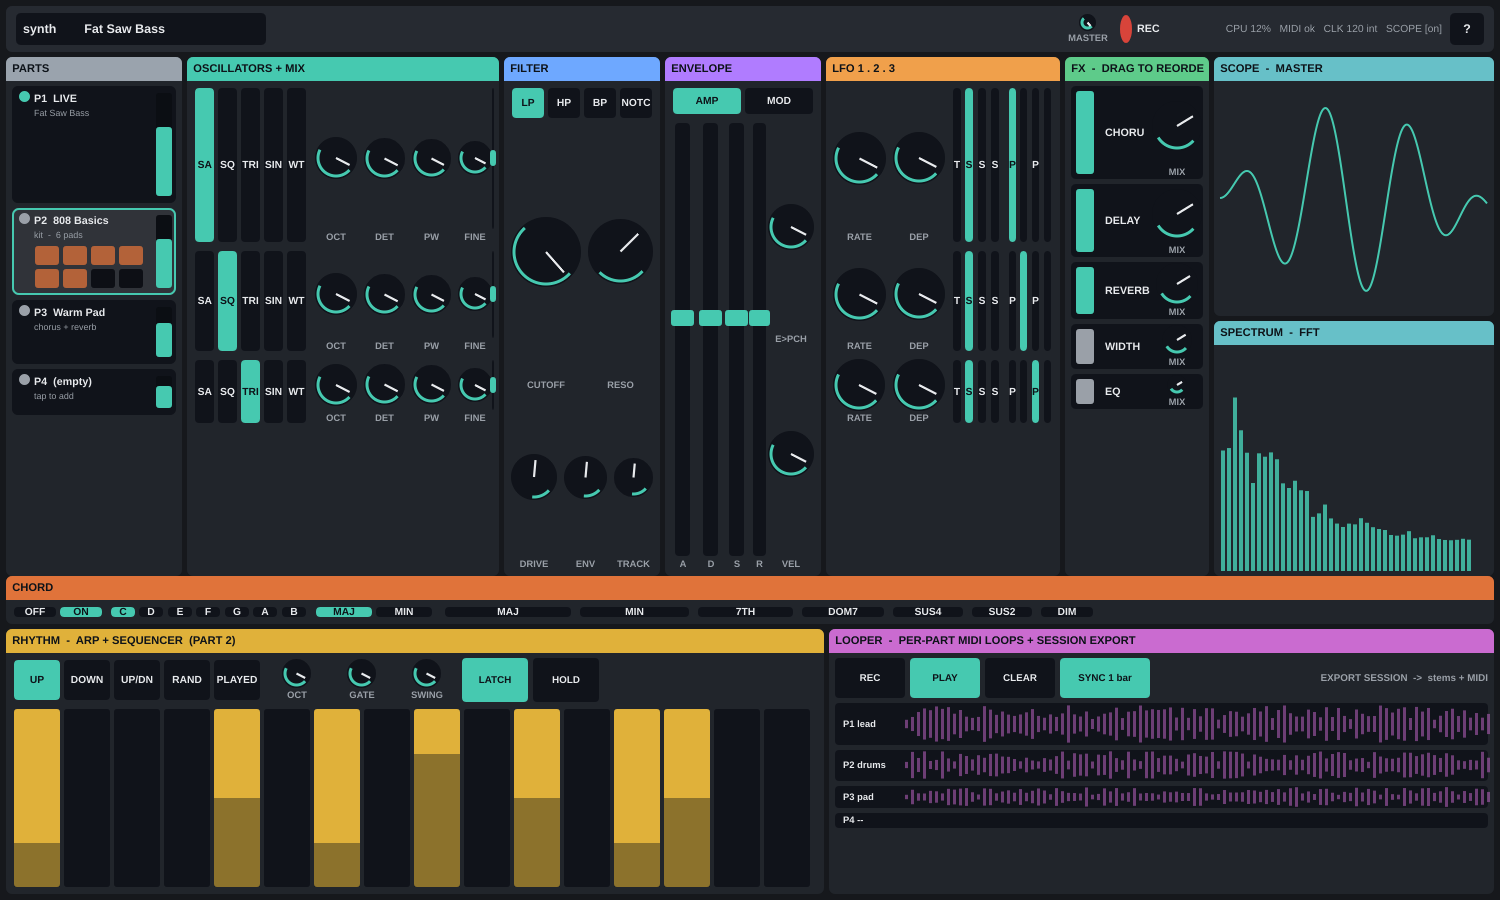
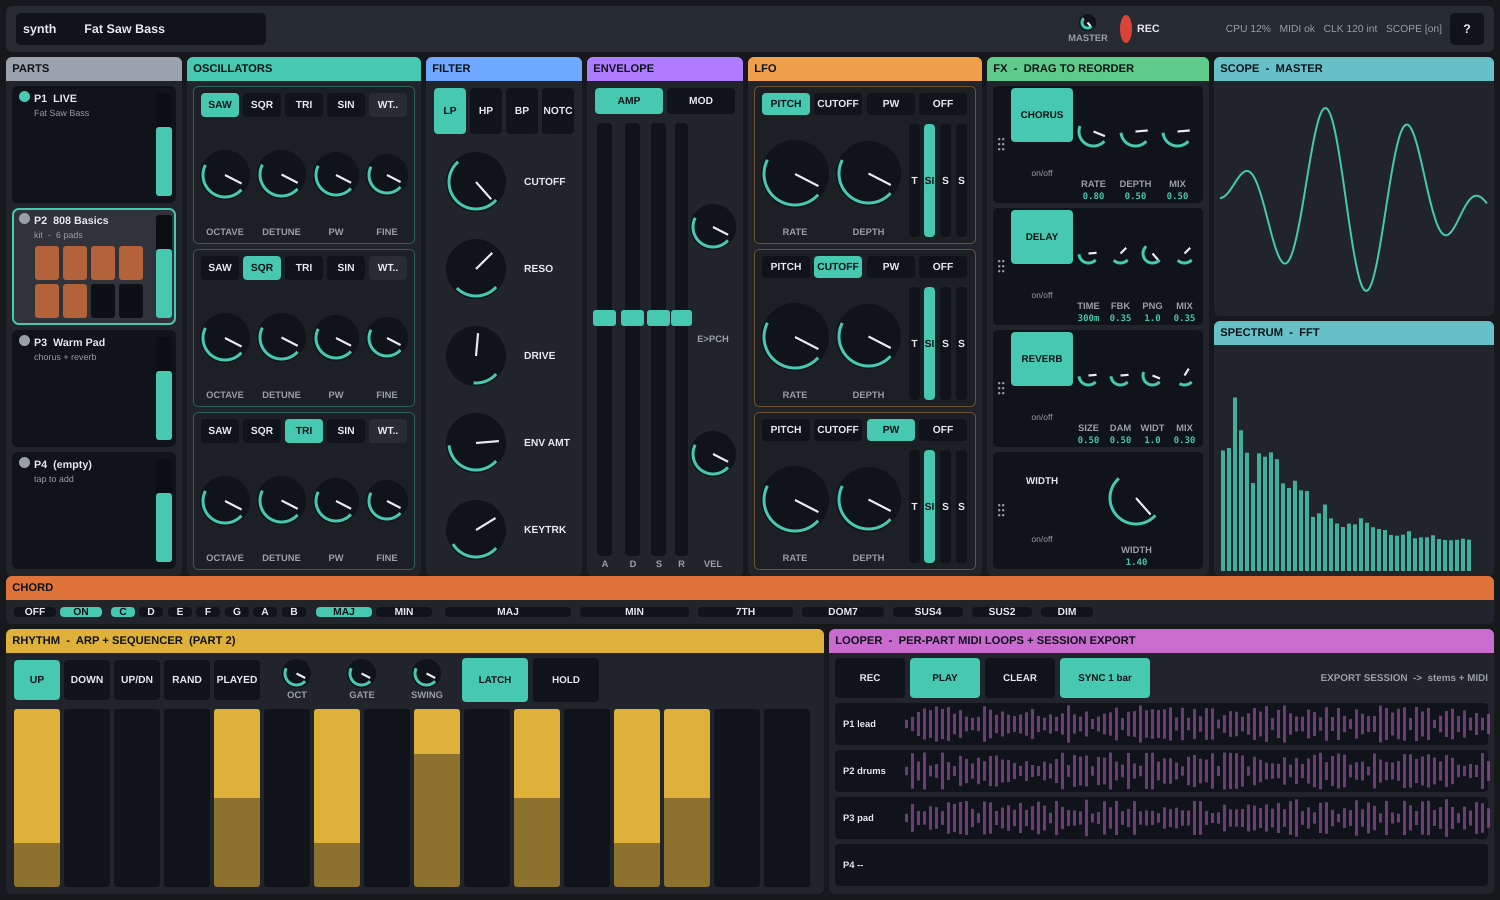
R2 mockup rev4: per-section redesign from sign-off notes
- Parts rail: even-height cells (fixed a shrinking-row bug that recomputed
  height each iteration).
- Oscillators: one sub-box PER oscillator; wave shapes as touch buttons across
  the top (SAW/SQR/TRI/SIN/WT.., WT opens a wavetable picker); OCTAVE/DETUNE/
  PW/FINE knobs below with clearer labels.
- Filter: type buttons 50% taller; all knobs stacked VERTICALLY at equal size
  with labels beside (Cutoff/Reso/Drive/Env Amt/Keytrk).
- Envelope: unchanged.
- LFO: one sub-box PER LFO (like oscillators); DEST selector horizontal across
  the top with full labels (Pitch/Cutoff/PW/Off); Rate/Depth + Shape below.
- FX: reverted to the real draggable panel - Chorus/Delay/Reverb/Width blocks
  (grip handle + on/off) each with their own knobs + NUMERIC values, recoloured
  to match (Chorus rate/depth/mix, Delay time/fbk/png/mix, Reverb size/damp/
  width/mix, Width).
- Chord row, Scope/FFT, RHYTHM sequencer, LOOPER lanes unchanged.
docs/mockup-*.png regenerated.

diff --git a/tests/plugin/test_layout_mockup.cpp b/tests/plugin/test_layout_mockup.cpp
@@ -1,17 +1,22 @@
 // ============================================================================
-// R2 layout MOCKUP (non-functional) - revision 3. Direction from sign-off:
-// denser (more params per section) + creative + more COMPACT synth, freeing real
-// estate for the RHYTHM (arp + 16-step sequencer) and LOOPER (per-part loop lanes)
-// zones. Filled tinted section headers kept. Arrangement: slim top bar; left PART
-// RAIL (P1-P4 + level + kit-pad seam); compact centre in signal-flow order with
-// MORE params visible; right SCOPE + FFT; bottom = CHORD row + substantial RHYTHM
-// + LOOPER zones (shown expanded here to prove the space; collapsed by default at
-// runtime, synth reflows into the freed space). Rendered at default/fullscreen/narrow.
+// R2 layout MOCKUP (non-functional) - revision 4, per detailed sign-off notes:
+//  - Parts rail: even-height cells (fixed a shrinking-row bug).
+//  - Oscillators: subdivided into a box PER OSC; wave shapes as touch buttons across
+//    the top (last = WT, opens a wavetable picker); OCT/DET/PW/FINE knobs below.
+//  - Filter: type buttons 50% taller; all knobs stacked VERTICALLY at equal size.
+//  - Envelope: unchanged (AMP/MOD + ADSR + Env>Pitch/Vel).
+//  - LFO: subdivided into a box PER LFO (like oscillators); DEST selector horizontal
+//    across the top with full labels; Rate/Depth knobs + Shape below.
+//  - FX: reverted to the real draggable panel - Chorus/Delay/Reverb/Width blocks with
+//    their own knobs + NUMERIC values, recoloured to match the UI.
+//  - Chord row, Scope/FFT, RHYTHM sequencer, LOOPER lanes: as before.
+// Rendered at default / fullscreen / narrow.
 // ============================================================================
 #include <catch2/catch_test_macros.hpp>
 #include <juce_gui_basics/juce_gui_basics.h>
 #include "UI/VASynthLookAndFeel.h"
 #include <cmath>
+#include <vector>
 
 #ifndef VASYNTH_DOCS_DIR
  #define VASYNTH_DOCS_DIR "."
@@ -19,7 +24,7 @@
 
 namespace
 {
-    using juce::Rectangle; using juce::Colour; using juce::Graphics;
+    using juce::Rectangle; using juce::Colour; using juce::Graphics; using juce::String;
 
     Colour panel   () { return VASynthLookAndFeel::panel(); }
     Colour panelLt () { return VASynthLookAndFeel::panelLight(); }
@@ -32,10 +37,10 @@ namespace
     Rectangle<int> takeL (Rectangle<int>& r, int w) { auto c = r.removeFromLeft (w); r.removeFromLeft (5); return c; }
     Rectangle<int> takeT (Rectangle<int>& r, int h) { auto c = r.removeFromTop (h);  r.removeFromTop (5);  return c; }
 
-    void clabel (Graphics& g, Rectangle<int> r, const juce::String& t)
+    void clabel (Graphics& g, Rectangle<int> r, const String& t)
     { g.setColour (dim()); g.setFont (juce::Font (juce::FontOptions (10.5f, juce::Font::bold))); g.drawText (t, r, juce::Justification::centred, false); }
 
-    Rectangle<int> section (Graphics& g, Rectangle<int> r, const juce::String& t, Colour tint)
+    Rectangle<int> section (Graphics& g, Rectangle<int> r, const String& t, Colour tint)
     {
         g.setColour (panelLt().darker (0.12f)); g.fillRoundedRectangle (r.toFloat(), 6.0f);
         auto head = r.removeFromTop (24);
@@ -45,10 +50,9 @@ namespace
         return r.reduced (6, 5);
     }
 
-    void knob (Graphics& g, Rectangle<int> r, const juce::String& label, float v = 0.62f)
+    void knobAt (Graphics& g, Rectangle<int> r, float v, int maxD)
     {
-        auto lab = r.removeFromBottom (13);
-        const int d = juce::jmin (juce::jmin (r.getWidth() - 2, r.getHeight() - 2), 96);
+        const int d = juce::jmin (juce::jmin (r.getWidth() - 2, r.getHeight() - 2), maxD);
         auto c = r.withSizeKeepingCentre (d, d).toFloat();
         g.setColour (track()); g.fillEllipse (c);
         const auto ctr = c.getCentre(); const float r0 = c.getWidth() * 0.5f - 3.0f;
@@ -56,10 +60,21 @@ namespace
         juce::Path arc; arc.addCentredArc (ctr.x, ctr.y, r0, r0, 0.0f, a0, a1, true);
         g.setColour (accent()); g.strokePath (arc, juce::PathStrokeType (3.0f));
         g.setColour (ink()); g.drawLine (ctr.x, ctr.y, ctr.x + std::cos (a1 + 1.57f) * r0 * 0.85f, ctr.y + std::sin (a1 + 1.57f) * r0 * 0.85f, 2.2f);
+    }
+    void knob (Graphics& g, Rectangle<int> r, const String& label, float v = 0.62f)
+    { auto lab = r.removeFromBottom (13); knobAt (g, r, v, 92); clabel (g, lab, label); }
+
+    // knob + label + numeric value (FX controls).
+    void knobV (Graphics& g, Rectangle<int> r, const String& label, const String& val, float v)
+    {
+        auto valR = r.removeFromBottom (13); auto lab = r.removeFromBottom (12);
+        knobAt (g, r, v, 58);
         clabel (g, lab, label);
+        g.setColour (accent()); g.setFont (juce::Font (juce::FontOptions (juce::Font::getDefaultMonospacedFontName(), 10.5f, juce::Font::bold)));
+        g.drawText (val, valR, juce::Justification::centred, false);
     }
 
-    void fader (Graphics& g, Rectangle<int> r, const juce::String& label, float v)
+    void fader (Graphics& g, Rectangle<int> r, const String& label, float v)
     {
         auto lab = r.removeFromBottom (13);
         auto col = r.withSizeKeepingCentre (juce::jmin (15, r.getWidth() - 2), r.getHeight() - 4);
@@ -75,16 +90,29 @@ namespace
         for (int i = 0; i < opts.size(); ++i)
         {
             auto cell = Rectangle<int> (r.getX() + i * r.getWidth() / n, r.getY(), r.getWidth() / n, r.getHeight()).reduced (2);
-            g.setColour (i == sel ? accent() : track()); g.fillRoundedRectangle (cell.toFloat(), 4.0f);
+            const bool wt = opts[i].startsWith ("WT");
+            g.setColour (i == sel ? accent() : (wt ? track().brighter (0.12f) : track())); g.fillRoundedRectangle (cell.toFloat(), 4.0f);
             g.setColour (i == sel ? onTint() : ink()); g.setFont (juce::Font (juce::FontOptions (11.5f, juce::Font::bold)));
             g.drawText (opts[i], cell, juce::Justification::centred, false);
         }
     }
-    void toggle (Graphics& g, Rectangle<int> r, const juce::String& t, bool on)
+    void toggle (Graphics& g, Rectangle<int> r, const String& t, bool on)
     {
         g.setColour (on ? accent() : track()); g.fillRoundedRectangle (r.toFloat(), 4.0f);
         g.setColour (on ? onTint() : ink()); g.setFont (juce::Font (juce::FontOptions (11.0f, juce::Font::bold)));
         g.drawText (t, r, juce::Justification::centred, false);
+    }
+    void grip (Graphics& g, Rectangle<int> r)   // drag handle (two columns of dots)
+    {
+        g.setColour (dim());
+        for (int x = 0; x < 2; ++x) for (int y = 0; y < 3; ++y)
+            g.fillEllipse ((float) (r.getCentreX() - 3 + x * 4), (float) (r.getCentreY() - 6 + y * 5), 2.4f, 2.4f);
+    }
+    Rectangle<int> subBox (Graphics& g, Rectangle<int> r, Colour tint)   // an inset box for one osc / lfo
+    {
+        g.setColour (panel()); g.fillRoundedRectangle (r.toFloat(), 5.0f);
+        g.setColour (tint.withAlpha (0.4f)); g.drawRoundedRectangle (r.toFloat().reduced (0.5f), 5.0f, 1.0f);
+        return r.reduced (6, 5);
     }
 
     struct LayoutMockup : public juce::Component
@@ -112,9 +140,8 @@ namespace
             g.setColour (ink()); g.setFont (juce::Font (juce::FontOptions (12.0f, juce::Font::bold))); g.drawText (" REC", rec, juce::Justification::centredLeft, false);
             knob (g, tb.removeFromRight (60), "MASTER", 0.7f);
 
-            // --- BOTTOM WORKSTATION: chord + RHYTHM + LOOPER (substantial) ------
-            auto workH = juce::jmax (250, area.getHeight() * 38 / 100);
-            auto work = area.removeFromBottom (workH);
+            // --- BOTTOM WORKSTATION: chord + RHYTHM + LOOPER -------------------
+            auto work = area.removeFromBottom (juce::jmax (250, area.getHeight() * 38 / 100));
             {
                 auto chord = takeT (work, 48);
                 auto c = section (g, chord, "Chord", tChord);
@@ -129,8 +156,7 @@ namespace
                   selector (g, takeL (ctrls, 250), { "UP","DOWN","UP/DN","RAND","PLAYED" }, 0);
                   knob (g, takeL (ctrls, 60), "OCT"); knob (g, takeL (ctrls, 60), "GATE"); knob (g, takeL (ctrls, 60), "SWING");
                   toggle (g, takeL (ctrls, 66), "LATCH", true); toggle (g, ctrls.removeFromLeft (66), "HOLD", false); }
-                { auto lane = rb;                                   // 16-step grid
-                  const int cells = 16; const int cw = lane.getWidth() / cells;
+                { auto lane = rb; const int cells = 16; const int cw = lane.getWidth() / cells;
                   for (int s = 0; s < cells; ++s)
                   { auto cell = Rectangle<int> (lane.getX() + s * cw, lane.getY(), cw, lane.getHeight()).reduced (2);
                     const bool on = (s % 4 == 0) || s == 6 || s == 10 || s == 13;
@@ -144,31 +170,33 @@ namespace
                   g.setColour (dim()); g.setFont (juce::Font (juce::FontOptions (11.0f, juce::Font::bold)));
                   g.drawText ("EXPORT SESSION  ->  stems + MIDI", bar, juce::Justification::centredRight, false); }
                 const char* lanes[] { "P1 lead", "P2 drums", "P3 pad", "P4 --" };
+                const int lh = (lb.getHeight() - 3 * 5) / 4;
                 for (int i = 0; i < 4; ++i)
-                { auto lane = takeT (lb, (lb.getHeight() - 3 * 5) / 4);
+                { auto lane = takeT (lb, lh);
                   g.setColour (track()); g.fillRoundedRectangle (lane.toFloat(), 4.0f);
                   g.setColour (ink()); g.setFont (juce::Font (juce::FontOptions (10.5f, juce::Font::bold)));
                   g.drawText (lanes[i], lane.removeFromLeft (70).withTrimmedLeft (8), juce::Justification::centredLeft, false);
                   if (i < 3) { g.setColour (tLoop.withAlpha (0.5f)); juce::Random rr (i + 3);
                     for (int x = 0; x < lane.getWidth(); x += 6) { float h = lane.getHeight() * (0.2f + 0.7f * rr.nextFloat());
-                      g.fillRect (Rectangle<float> ((float) (lane.getX() + x), lane.getCentreY() - h/2, 3.0f, h)); } } }
+                      g.fillRect (Rectangle<float> ((float) (lane.getX() + x), lane.getCentreY() - h / 2, 3.0f, h)); } } }
             }
 
-            // --- left PART RAIL -------------------------------------------------
+            // --- left PART RAIL (even-height cells) -----------------------------
             auto rail = takeL (area, 176);
             {
                 auto rl = section (g, rail, "Parts", tParts);
                 const char* pn[]  { "P1  LIVE", "P2  808 Basics", "P3  Warm Pad", "P4  (empty)" };
                 const char* sub[] { "Fat Saw Bass", "kit  -  6 pads", "chorus + reverb", "tap to add" };
+                const int cellH = (rl.getHeight() - 3 * 5) / 4;      // ONE height -> even cells
                 for (int i = 0; i < 4; ++i)
                 {
-                    auto cell = takeT (rl, (rl.getHeight() - 15) / 4);
+                    auto cell = takeT (rl, cellH);
                     const bool selp = i == 1;
                     g.setColour (selp ? track().brighter (0.16f) : track()); g.fillRoundedRectangle (cell.toFloat(), 6.0f);
                     if (selp) { g.setColour (accent()); g.drawRoundedRectangle (cell.toFloat().reduced (1), 6.0f, 2.0f); }
                     auto lvl = cell.removeFromRight (24).reduced (4, 7);
                     g.setColour (track().darker (0.35f)); g.fillRoundedRectangle (lvl.toFloat(), 3.0f);
-                    g.setColour (accent()); g.fillRoundedRectangle (lvl.withTrimmedTop (lvl.getHeight()/3).toFloat(), 3.0f);
+                    g.setColour (accent()); g.fillRoundedRectangle (lvl.withTrimmedTop (lvl.getHeight() / 3).toFloat(), 3.0f);
                     auto body = cell.reduced (7, 5);
                     g.setColour (i == 0 ? accent() : dim()); g.fillEllipse (body.removeFromLeft (11).removeFromTop (11).toFloat());
                     g.setColour (ink()); g.setFont (juce::Font (juce::FontOptions (12.0f, juce::Font::bold)));
@@ -194,51 +222,74 @@ namespace
                   g.setColour (accent().withAlpha (0.85f)); g.fillRect (Rectangle<float> ((float)(fb.getX()+b*bw+1), fb.getBottom()-h, bw-2.0f, h)); }
             }
 
-            // --- centre synth, COMPACT + dense (more params) --------------------
+            // --- centre synth --------------------------------------------------
             auto centre = area;
             const int u = juce::jmax (78, (centre.getWidth() - 4 * 5) / 13);
 
-            { auto s = section (g, takeL (centre, u * 4), "Oscillators + Mix", tOsc);   // 3 rows x 6 params
-              for (int i = 0; i < 3; ++i) { auto row = takeT (s, (s.getHeight() - 10) / 3);
-                selector (g, takeL (row, 116), { "SAW","SQR","TRI","SIN","WT" }, i);
-                for (auto* l : { "OCT","DET","PW","FINE" }) knob (g, takeL (row, row.getWidth()/(l[0]=='O'?4:l[0]=='D'?3:l[0]=='P'?2:1)), l);
-                fader (g, row.removeFromLeft (0).withWidth (0), "", 0.5f); } }
+            // OSCILLATORS: one sub-box per osc; wave buttons across top, knobs below.
+            { auto s = section (g, takeL (centre, u * 3), "Oscillators", tOsc);
+              const int bh = (s.getHeight() - 2 * 5) / 3;
+              for (int i = 0; i < 3; ++i)
+              { auto box = subBox (g, takeT (s, bh), tOsc);
+                selector (g, takeT (box, 28), { "SAW","SQR","TRI","SIN","WT.." }, i);
+                for (auto* l : { "OCTAVE","DETUNE","PW","FINE" }) knob (g, takeL (box, box.getWidth()/(l[0]=='O'?4:l[0]=='D'?3:l[1]=='W'?2:1)), l); } }
 
+            // FILTER: type buttons 50% taller; all knobs stacked vertically, equal size.
             { auto s = section (g, takeL (centre, u * 2), "Filter", tFilt);
-              selector (g, takeT (s, 34), { "LP","HP","BP","NOTCH" }, 0);
-              auto r1 = takeT (s, s.getHeight() * 3 / 5);
-              knob (g, takeL (r1, r1.getWidth()/2), "CUTOFF", 0.7f); knob (g, r1, "RESO", 0.35f);
-              for (auto* l : { "DRIVE","ENV","TRACK" }) knob (g, takeL (s, s.getWidth()/(l[0]=='D'?3:l[0]=='E'?2:1)), l, 0.2f); }
+              selector (g, takeT (s, 50), { "LP","HP","BP","NOTCH" }, 0);   // 50% taller
+              const char* fk[] { "CUTOFF","RESO","DRIVE","ENV AMT","KEYTRK" };
+              const float fv[] { 0.7f, 0.35f, 0.2f, 0.5f, 0.4f };
+              const int kh = (s.getHeight() - 4 * 5) / 5;
+              for (int i = 0; i < 5; ++i) { auto row = takeT (s, kh);
+                knobAt (g, row.removeFromLeft (kh + 6), fv[i], 60);
+                g.setColour (ink()); g.setFont (juce::Font (juce::FontOptions (11.5f, juce::Font::bold)));
+                g.drawText (fk[i], row.withTrimmedLeft (4), juce::Justification::centredLeft, false); } }
 
+            // ENVELOPE: unchanged.
             { auto s = section (g, takeL (centre, u * 2), "Envelope", tEnv);
               selector (g, takeT (s, 30), { "AMP","MOD" }, 0);
               auto kk = s.removeFromRight (s.getWidth() * 2 / 6);
               for (auto* l : { "A","D","S","R" }) fader (g, takeL (s, s.getWidth()/(l[0]=='A'?4:l[0]=='D'?3:l[0]=='S'?2:1)), l, 0.55f);
               knob (g, takeT (kk, kk.getHeight()/2), "E>PCH"); knob (g, kk, "VEL"); }
 
-            { auto s = section (g, takeL (centre, u * 3), "LFO 1 . 2 . 3", tLfo);        // 3 rows x 4 params
-              for (int i = 0; i < 3; ++i) { auto row = takeT (s, (s.getHeight() - 10) / 3);
-                knob (g, takeL (row, row.getWidth()/4), "RATE"); knob (g, takeL (row, row.getWidth()/3), "DEP");
-                selector (g, takeL (row, row.getWidth()/2), { "TRI","SIN","SQR","S&H" }, 1);
-                selector (g, row, { "PCH","CUT","PW","OFF" }, i); } }
+            // LFO: one sub-box per LFO; DEST selector horizontal across the top, knobs below.
+            { auto s = section (g, takeL (centre, u * 3), "LFO", tLfo);
+              const int bh = (s.getHeight() - 2 * 5) / 3;
+              for (int i = 0; i < 3; ++i)
+              { auto box = subBox (g, takeT (s, bh), tLfo);
+                selector (g, takeT (box, 26), { "PITCH","CUTOFF","PW","OFF" }, i);
+                knob (g, takeL (box, box.getWidth()/3), "RATE"); knob (g, takeL (box, box.getWidth()/2), "DEPTH");
+                selector (g, box, { "TRI","SIN","SQR","S&H" }, 1); } }
 
-            { auto s = section (g, centre, "FX  -  drag to reorder", tFx);              // 5 blocks + on/off
-              const char* fx[] { "CHORUS","DELAY","REVERB","WIDTH","EQ" };
-              for (int i = 0; i < 5; ++i) { auto row = takeT (s, (s.getHeight() - 20) / 5);
+            // FX: real draggable panel - Chorus / Delay / Reverb / Width, knobs + values.
+            { auto s = section (g, centre, "FX  -  drag to reorder", tFx);
+              struct K { const char* l; const char* v; float p; };
+              struct B { const char* name; bool on; std::vector<K> k; };
+              std::vector<B> blocks = {
+                { "CHORUS", true,  { { "RATE","0.80",0.6f }, { "DEPTH","0.50",0.5f }, { "MIX","0.50",0.5f } } },
+                { "DELAY",  true,  { { "TIME","300ms",0.5f }, { "FBK","0.35",0.35f }, { "PNG","1.0",0.7f }, { "MIX","0.35",0.35f } } },
+                { "REVERB", true,  { { "SIZE","0.50",0.5f }, { "DAMP","0.50",0.5f }, { "WIDTH","1.0",0.6f }, { "MIX","0.30",0.3f } } },
+                { "WIDTH",  false, { { "WIDTH","1.40",0.7f } } } };
+              const int bh = (s.getHeight() - 3 * 5) / 4;
+              for (auto& b : blocks)
+              { auto row = takeT (s, bh);
                 g.setColour (track()); g.fillRoundedRectangle (row.toFloat(), 5.0f);
-                auto t = row.removeFromLeft (28).reduced (5); g.setColour (i < 3 ? accent() : dim()); g.fillRoundedRectangle (t.toFloat(), 3.0f);
-                g.setColour (ink()); g.setFont (juce::Font (juce::FontOptions (12.0f, juce::Font::bold)));
-                g.drawText (fx[i], row.removeFromLeft (row.getWidth() - 52).withTrimmedLeft (6), juce::Justification::centredLeft, false);
-                knob (g, row, "MIX", 0.4f); } }
+                grip (g, row.removeFromLeft (16));
+                auto lead = row.removeFromLeft (66);
+                toggle (g, lead.removeFromTop (lead.getHeight()/2).reduced (2), b.name, b.on);
+                g.setColour (dim()); g.setFont (juce::Font (juce::FontOptions (9.5f))); g.drawText ("on/off", lead.reduced (2), juce::Justification::centred, false);
+                const int kw = row.getWidth() / (int) b.k.size();
+                for (auto& kn : b.k) knobV (g, takeL (row, kw - 5), kn.l, kn.v, kn.p); }
+            }
         }
     };
 
-    void render (int w, int h, const juce::String& name)
+    void render (int w, int h, const String& name)
     {
         LayoutMockup m; m.setSize (w, h);
         auto img = m.createComponentSnapshot (m.getLocalBounds(), false, 1.0f);
         REQUIRE (img.isValid());
-        juce::File out (juce::String (VASYNTH_DOCS_DIR) + "/" + name);
+        juce::File out (String (VASYNTH_DOCS_DIR) + "/" + name);
         out.deleteFile();
         juce::FileOutputStream os (out); REQUIRE (os.openedOk());
         juce::PNGImageFormat png; REQUIRE (png.writeImageToStream (img, os));